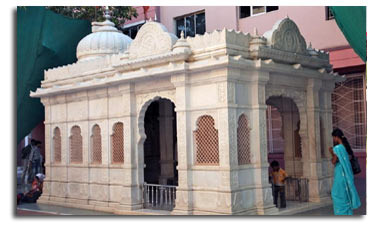
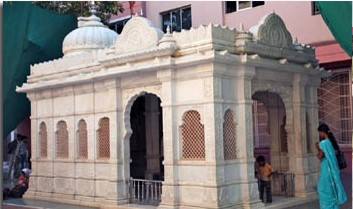
add

diff --git a/index.html b/index.html
@@ -476,59 +476,98 @@
 
     <!-- temple in premice -->
 
-      <div class="container-fluid">
-        <div class="row">
-          <div class="col-sm-6 col-12 container-fluid bg-danger text-center justify-content-center container-fluid px-0 ">
-           
-              <h3>premice temple</h3>
-            
-                <div class="row">
-                  <div class="col-6 " id="inplace"> <img src="./images/place img/in temple/audumber.jpg" class="photo" alt="">
-                  </div>
-                  <div class="col-6" id="inplace"> <img src="./images/place img/in temple/balabhau narayan.jpg" class="photo" alt="">
-                  </div>
-                  <div class="col-6" id="inplace"> <img src="./images/place img/in temple/gadiii.jpg" class="photo" alt="">
-                  </div>
-                  <div class="col-6" id="inplace"> <img src="./images/place img/in temple/hanumant.jpg" class="photo" alt="">
-                  </div>
-                  <div class="col-12" id="inplace"> <img src="./images/place img/in temple/nagdev.jpg" class="photo" alt="">
-                  </div>
-                </div>
-              
-           
-          </div>
-          <div class="col-sm-6 col-12 container-fluid bg-danger text-center justify-content-center container-fluid px-0">
-           
-              <h3>near shegaon</h3>
-            
-                <div class="row">
-                  <div class="col-6" id="inplace">
-                    <img src="./images/thum.jpg" class="photo img-fluid" alt="..." />
-                  </div>
-                  <div class="col-6" id="inplace">
-                    <img src="./images/thum.jpg" class="photo img-fluid" alt="..." />
-                  </div>
-                  <div class="col-6" id="inplace">
-                    <img src="./images/thum.jpg" class="photo img-fluid" alt="..." />
-                  </div>
+    <div class="container-fluid">
+      <div class="row">
+        <div
+          class="col-sm-6 col-12 container-fluid bg-danger text-center justify-content-center container-fluid px-0"
+        >
+          <h3>premice temple</h3>
 
-                  <div class="col-6" id="inplace">
-                    <img
-                      src="./images/thum.jpg"
-                      class="photo img-fluid h-5"
-                      alt="..."
-                    />
-                  </div>
-                  <div class="col-12" id="inplace">
-                    <img src="./images/thum.jpg" class="photo img-fluid" alt="..." />
-                  </div>
-                </div>
-             
-           
+          <div class="row">
+            <div class="col-6" id="inplace">
+              <img
+                src="./images/place img/in temple/audumber.jpg"
+                class="photo"
+                alt=""
+              />
+            </div>
+            <div class="col-6" id="inplace">
+              <img
+                src="./images/place img/in temple/balabhau narayan.jpg"
+                class="photo"
+                alt=""
+              />
+            </div>
+            <div class="col-6" id="inplace">
+              <img
+                src="./images/place img/in temple/gadiii.jpg"
+                class="photo"
+                alt=""
+              />
+            </div>
+            <div class="col-6" id="inplace">
+              <img
+                src="./images/place img/in temple/hanumant.jpg"
+                class="photo"
+                alt=""
+              />
+            </div>
+            <div class="col-12" id="inplace">
+              <img
+                src="./images/place img/in temple/nagdev.jpg"
+                class="photo"
+                alt=""
+              />
+            </div>
+          </div>
+        </div>
+        <div
+          class="col-sm-6 col-12 container-fluid bg-danger text-center justify-content-center container-fluid px-0"
+        >
+          <h3>near shegaon</h3>
+
+          <div class="row">
+            <div class="col-6" id="inplace">
+              <img
+                src="./images/place img/near shegaon/bankat  sadan.jpeg"
+                class="photo img-fluid"
+                alt="..."
+              />
+            </div>
+            <div class="col-6" id="inplace">
+              <img
+                src="./images/place img/near shegaon/krushnajicha-mala-mandir.jpg"
+                class="photo img-fluid"
+                alt="..."
+              />
+            </div>
+            <div class="col-6" id="inplace">
+              <img
+                src="./images/place img/near shegaon/maruti mote savkar.jpeg"
+                class="photo img-fluid"
+                alt="..."
+              />
+            </div>
+
+            <div class="col-6" id="inplace">
+              <img
+                src="./images/place img/near shegaon/nagzari.jpeg"
+                class="photo img-fluid h-5"
+                alt="..."
+              />
+            </div>
+            <div class="col-12" id="inplace">
+              <img
+                src="./images/place img/near shegaon/siddhapith.jpg"
+                class="photo img-fluid"
+                alt="..."
+              />
+            </div>
           </div>
         </div>
       </div>
-   
+    </div>
+
     <!-- temple in premice end -->
     <!--  -->
 

diff --git a/css files/index_style.css b/css files/index_style.css
@@ -81,6 +81,10 @@ ul{
 }
 
 .photo{
-  height: 250px;
-  width: 250px;
+  height: 230px;
+  width: 230px;
+  padding: 2px;
+  margin: 15px;
+  border: 2px solid white;
+  border-radius: 8%;
 }
